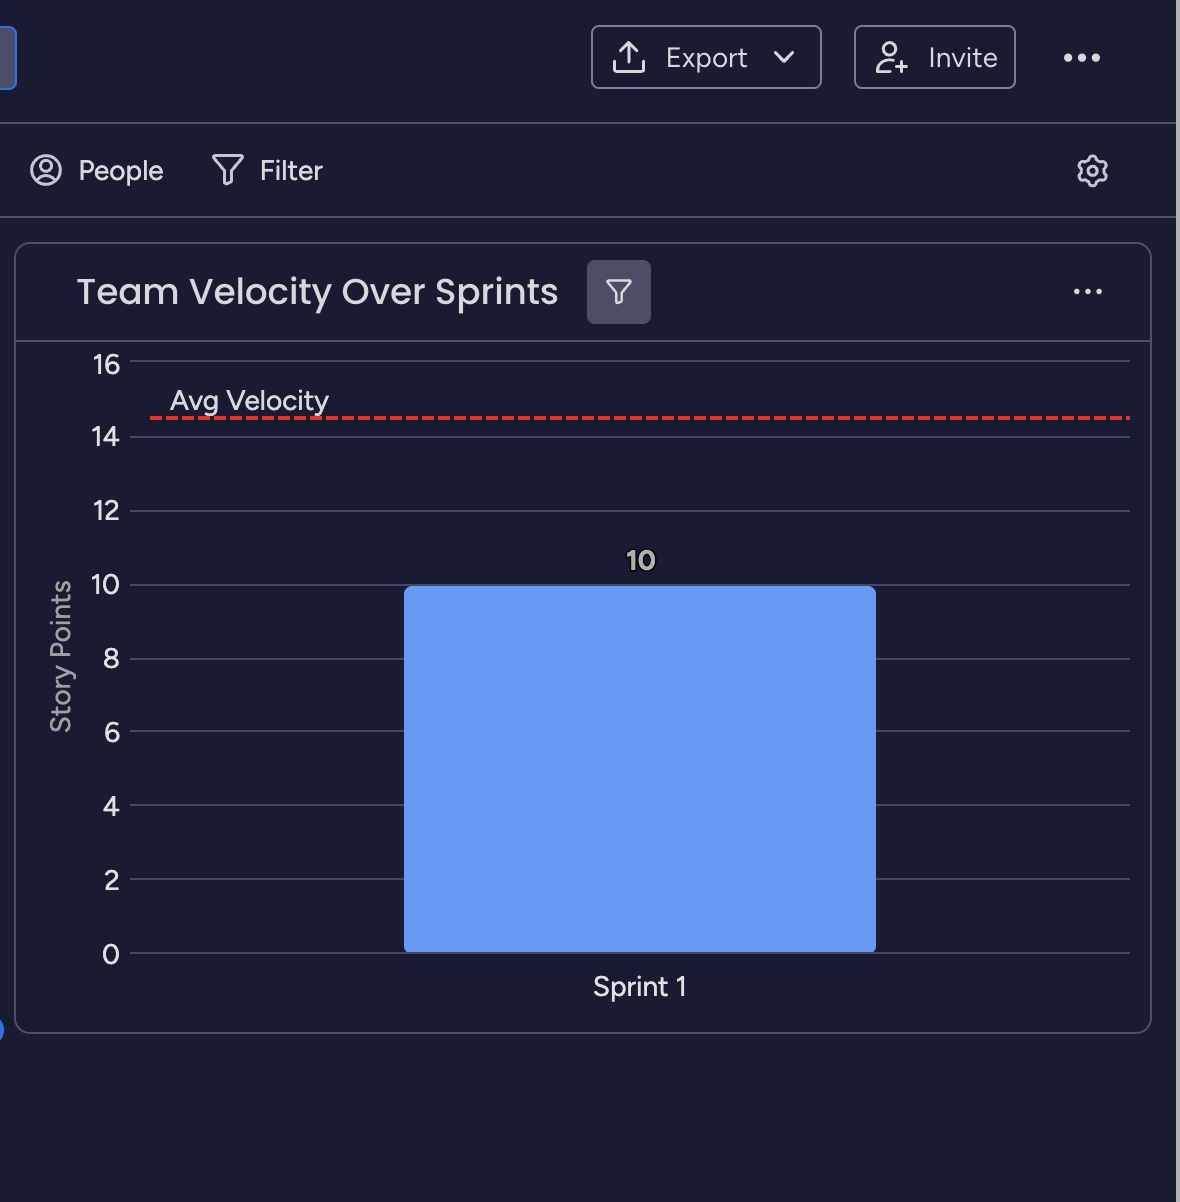
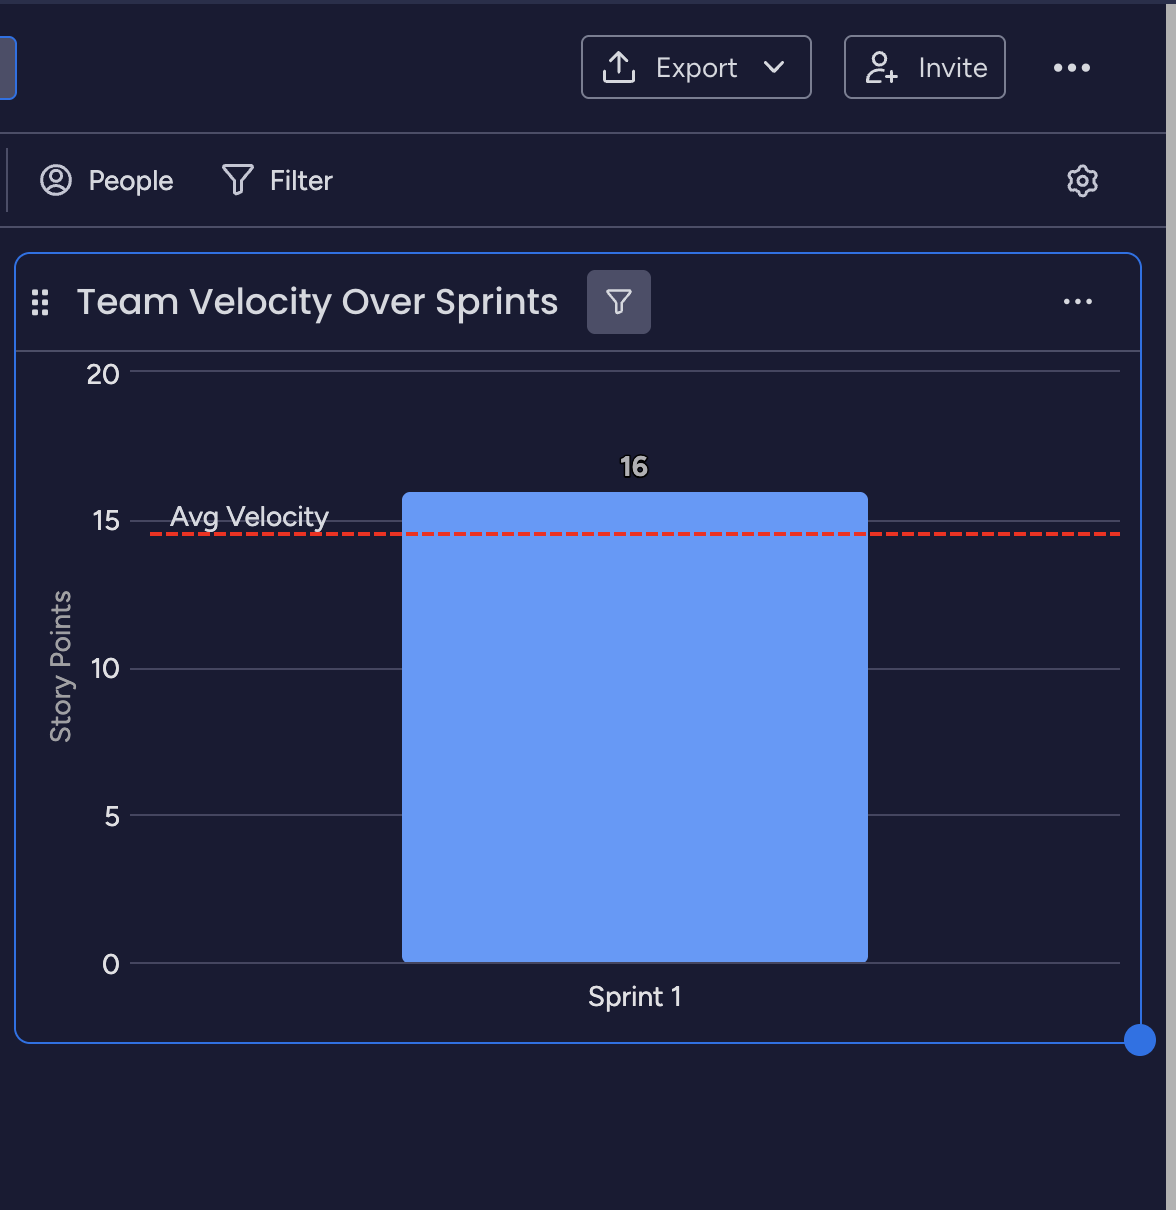
Editing Main Page

diff --git a/projects/project3.html b/projects/project3.html
@@ -3,13 +3,13 @@
 <head>
   <meta charset="UTF-8" />
   <meta name="viewport" content="width=device-width, initial-scale=1.0"/>
-  <title>Internal Feedback App – Agile Case Study</title>
+  <title>DevOps Automation Dashboard</title>
   <link rel="stylesheet" href="../project3.css" />
 </head>
 <body>
   <header style="text-align:center; padding: 40px 20px;">
-    <h1>Internal Feedback App – Agile Case Study</h1>
-    <p>An Agile approach to building a feedback and recognition platform for internal teams.</p>
+    <h1>DevOps Automation Dashboard</h1>
+    <p>An Agile approach to building a DevOps Dashboard for internal teams using Kanban.</p>
     <a href="../index.html" style="color:#393347; font-weight: bold;">← Back to Portfolio</a>
   </header>
 
@@ -17,34 +17,8 @@
     <section>
       <h2>Product Vision</h2>
       <p>
-        Create a lightweight app for team members to share feedback and give recognition, fostering a culture of transparency and appreciation.
+        Build an internal dashboard for DevOps teams to visualize build pipeline health, deployment metrics, and active incidents — improving visibility, reducing time-to-resolution, and supporting CI/CD best practices.
       </p>
-    </section>
-
-    <section id="product-backlog">
-      <h2>Interactive Product Backlog</h2>
-      <p>This is the live Product Backlog view powered by Monday.com. You can explore tasks, user stories, and priorities in real time.</p>
-    
-      <iframe 
-        width="100%" 
-        height="600" 
-        style="border: none;" 
-        src="" width=770 height=500 style="border: 0; box-shadow: 5px 5px 56px 0px rgba(0,0,0,0.25);" width=770 height=500 style="border: 0; box-shadow: 5px 5px 56px 0px rgba(0,0,0,0.25);" 
-        allowfullscreen>
-      </iframe>
-    </section>
-
-    <section id="sprint-backlog">
-      <h2>Sprint Backlog</h2>
-      <p>This section shows what the team committed to during Sprint 1, pulled from the Product Backlog.</p>
-    
-      <iframe 
-        width="100%" 
-        height="600" 
-        style="border: none;" 
-        src="" width=770 height=500 style="border: 0; box-shadow: 5px 5px 56px 0px rgba(0,0,0,0.25);" 
-        allowfullscreen>
-      </iframe>
     </section>
 
     <section id="agile-metrics">
@@ -62,6 +36,32 @@
           <p>Velocity Chart</p>
         </div>
       </div>
+    </section>
+
+    <section id="kanban">
+      <h2>Interactive Kanban board</h2>
+      <p>This is the live Kanban board powered by Monday.com. You can explore tasks, user stories, and priorities in real time.</p>
+    
+      <iframe 
+        width="100%" 
+        height="600" 
+        style="border: none;" 
+        src="https://view.monday.com/embed/9738435279-9e3e1aaed028c2ac021c1ddc8ab569f9?r=use1" width=770 height=500 style="border: 0; box-shadow: 5px 5px 56px 0px rgba(0,0,0,0.25);"></iframe>" width=770 height=500 style="border: 0; box-shadow: 5px 5px 56px 0px rgba(0,0,0,0.25);" width=770 height=500 style="border: 0; box-shadow: 5px 5px 56px 0px rgba(0,0,0,0.25);" 
+        allowfullscreen>
+      </iframe>
+    </section>
+
+    <section id="sprint-backlog">
+      <h2>Kanban Board</h2>
+      <p>INSERT TEXT here</p>
+    
+      <iframe 
+        width="100%" 
+        height="600" 
+        style="border: none;" 
+        src="" width=770 height=500 style="border: 0; box-shadow: 5px 5px 56px 0px rgba(0,0,0,0.25);" 
+        allowfullscreen>
+      </iframe>
     </section>
         
     <section>

diff --git a/projects/project1.html b/projects/project1.html
@@ -21,6 +21,23 @@
       </p>
     </section>
 
+    <section id="agile-metrics"></section>
+      <h2>Agile Metrics</h2>
+      <p>Click below to view Agile reports in fullscreen.</p>
+    
+      <div class="pdf-grid">
+        <div class="pdf-card" onclick="openPdf('../static/burndown1.pdf')">
+          <img src="../static/burndown1.png" alt="Burndown Chart" class="pdf-thumbnail">
+          <p>Burndown Chart (Sprint 1)</p>
+        </div>
+    
+        <div class="pdf-card" onclick="openPdf('../static/velocity1.pdf')">
+          <img src="../static/velocity1.png" alt="Velocity Chart" class="pdf-thumbnail">
+          <p>Velocity Chart</p>
+        </div>
+      </div>
+    </section>
+
     <section id="product-backlog">
       <h2>Interactive Product Backlog</h2>
       <p>This is the live Product Backlog view powered by Monday.com. You can explore tasks, user stories, and priorities in real time.</p>
@@ -45,23 +62,6 @@
         src="https://view.monday.com/embed/9733482670-77f82b6370227557e89b3c53bb9ebe35?r=use1" width=770 height=500 style="border: 0; box-shadow: 5px 5px 56px 0px rgba(0,0,0,0.25);" 
         allowfullscreen>
       </iframe>
-    </section>
-
-    <section id="agile-metrics">
-      <h2>Agile Metrics</h2>
-      <p>Click below to view Agile reports in fullscreen.</p>
-    
-      <div class="pdf-grid">
-        <div class="pdf-card" onclick="openPdf('../static/burndown1.pdf')">
-          <img src="../static/burndown1.png" alt="Burndown Chart" class="pdf-thumbnail">
-          <p>Burndown Chart (Sprint 1)</p>
-        </div>
-    
-        <div class="pdf-card" onclick="openPdf('../static/velocity1.pdf')">
-          <img src="../static/velocity1.png" alt="Velocity Chart" class="pdf-thumbnail">
-          <p>Velocity Chart</p>
-        </div>
-      </div>
     </section>
         
     <section>

diff --git a/projects/project4.html b/projects/project4.html
@@ -1,33 +1,12 @@
 <!DOCTYPE html>
 <html lang="en">
 <head>
-  <meta charset="UTF-8" />
-  <meta name="viewport" content="width=device-width, initial-scale=1.0" />
-  <title>DevOps Metrics / Release PM</title>
-  <link rel="stylesheet" href="../style.css" />
+  <meta charset="UTF-8">
+  <meta name="viewport" content="width=device-width, initial-scale=1.0">
+  <title>Project 4</title>
+  <link rel="stylesheet" href="../project4.css">
 </head>
 <body>
-  <header style="text-align:center; padding: 40px 20px;">
-    <h1>DevOps Metrics / Release PM</h1>
-    <p>A sample project demonstrating DevOps metrics and release.</p>
-    <a href="../index.html" style="color:#393347; font-weight: bold;">← Back to Portfolio</a>
-  </header>
-
-  <main style="max-width: 1000px; margin: 0 auto; padding: 20px;">
-    <section style="margin-bottom: 40px;">
-      <h2>Deployment Timeline</h2>
-      <img src="../static/mock-schedule.png" alt="Sprint Schedule" style="width: 100%; max-width: 700px;" />
-    </section>
-
-    <section style="margin-bottom: 40px;">
-      <h2>Uptime tracking</h2>
-      <img src="../static/mock-burndown.png" alt="Burndown Chart" style="width: 100%; max-width: 700px;" />
-    </section>
-
-    <section style="margin-bottom: 40px;">
-      <h2>Stakeholder Doc</h2>
-      <img src="../static/mock-stakeholders.png" alt="Stakeholder Engagement Plan" style="width: 100%; max-width: 700px;" />
-    </section>
-  </main>
+  
 </body>
 </html>

diff --git a/style.css b/style.css
@@ -8,16 +8,40 @@ body {
   align-items: center;
 }
 
-header .intro {
+.hero {
   text-align: center;
-  margin-top: 50px;
+  padding: 80px 20px 60px;
+  background: linear-gradient(to right, #cdeaff, #e4f4ff);
+  border-bottom: 2px solid rgba(199, 229, 255, 0.7);
 }
 
-.avatar {
-  width: 150px;
-  height: auto;
-  border-radius: 50%;
-  margin-top: 20px;
+.hero h1 {
+  font-size: 2.5rem;
+  margin-bottom: 15px;
+  font-weight: bold;
+  color: #2b2b2b;
+}
+
+.hero-subtitle {
+  font-size: 1.2rem;
+  max-width: 700px;
+  margin: 0 auto 30px;
+  color: #3f3f3f;
+}
+
+.cta-button {
+  display: inline-block;
+  padding: 12px 24px;
+  background-color: #3949ab;
+  color: white;
+  border-radius: 8px;
+  font-weight: bold;
+  text-decoration: none;
+  transition: background-color 0.3s ease;
+}
+
+.cta-button:hover {
+  background-color: #2e3d89;
 }
 
 .projects {

diff --git a/index.html b/index.html
@@ -8,11 +8,12 @@
 </head>
 <body>
     <header>
-        <div class="intro">
-            <h1>Hello! I'm Colten.👋</h1>
-            <p>Turning ideas into <span class="highlight">interactive</span>, user-friendly <span class="highlight">designs</span>.</p>
-            <img src="static/avatar.png" alt="Avatar" class="avatar">
-        </div>
+        <section class="hero">
+            <h1>Hello, I'm Colten!</h1>
+            <p class="hero-subtitle">
+              PMP-certified Project Manager pivoting into tech, blending structure with Agile delivery to drive results across development teams.
+            </p>
+          </section>          
     </header>
     <main>
         <section>
